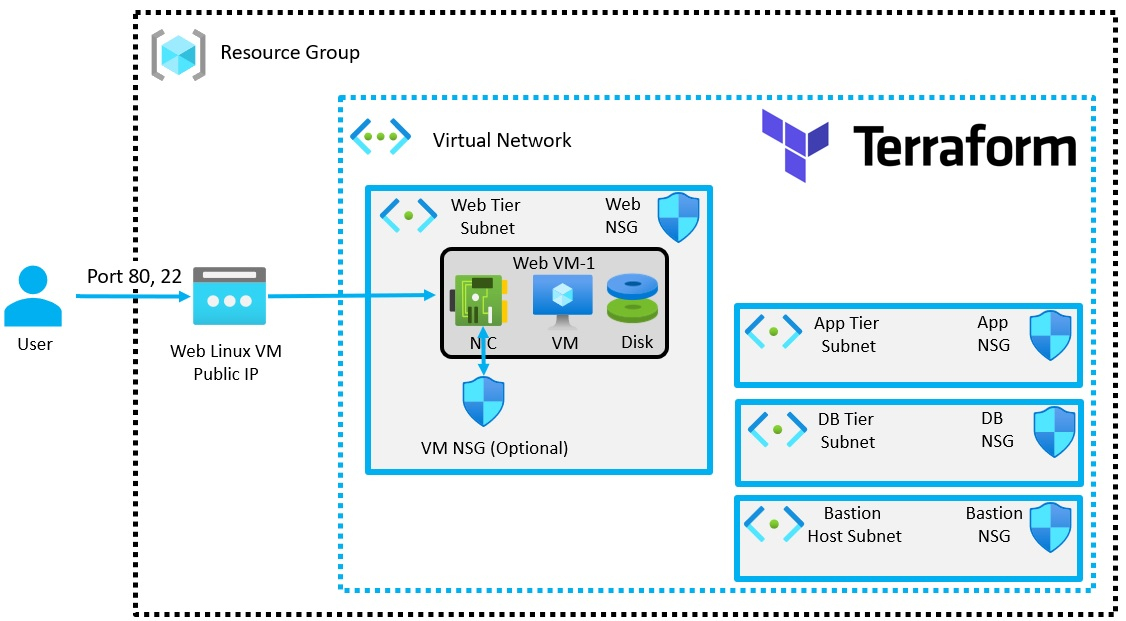
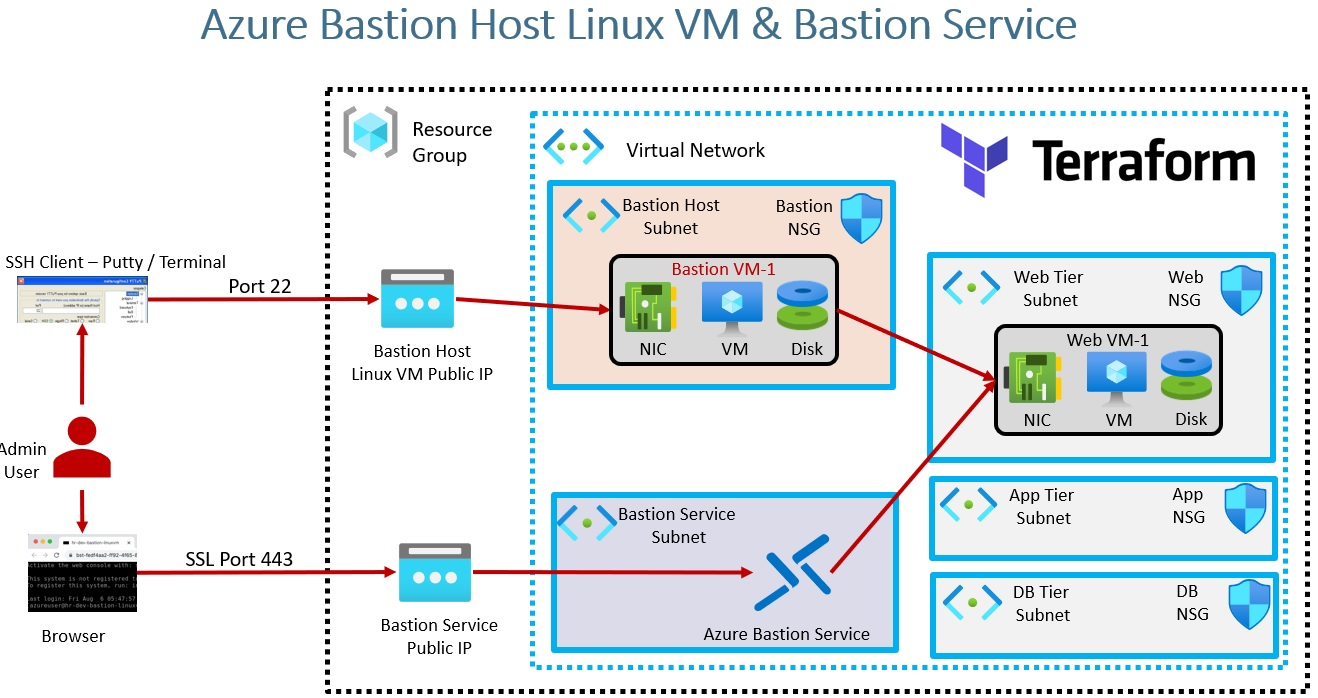
Added New example

diff --git a/iac/2201100-vnet-vm-nsg-baston/Readme.Md b/iac/2201100-vnet-vm-nsg-baston/Readme.Md
@@ -1,10 +1,12 @@
-# Create a VM with a network security group
+# Bastion Service
 
-- Web Network Security Group can be considered as the first level.
+## Bastion Host: Linux VM
+## Bastion Service: Azure Bastion Service
 
-- VM Network Security Group(Optional) can be considered as the second level.
- 
-- Port 80 is to connect to app on this VM, and 22 is to connect to the VM.
+- Azure Bastion is a fully managed service that provides more secure and seamless Remote Desktop Protocol (RDP) and Secure Shell Protocol (SSH) access to virtual machines (VMs) without any exposure through public IP addresses. Provision the service directly in your local or peered virtual network to get support for all the VMs within it.
+
+- Reference: https://azure.microsoft.com/en-us/services/azure-bastion/#overview
+
  
 - One VM can be associated with multiple VM Network Interfaces. So the following is a list.
 network_interface_ids = [azurerm_network_interface.web_linuxvm_nic.id]
@@ -14,4 +16,26 @@ network_interface_ids = [azurerm_network_interface.web_linuxvm_nic.id]
 - The following is the diagram downloaded from the Azure Portal.
 
 ![The Diagram](./Images/topology.svg)
+
+- The bastion linux vm. 
+
+![The bastion linux vm](./Images/bastion-linux-vm.jpg)
+
+- The web linux vm.Note that it has no public ip address. Only the private ip address.
+
+![The web linux vm](./Images/web-linux-vm.jpg)
+
+- Connect to Web VM via Bastion from the auzre portal. Go to the resource group on portal. Click on the web linux vm. Click on the Connect button. Then select Bastion tab. Then click Use Bastion button. 
+
+![Connect to Web VM via Bastion from the auzre portal.](./Images/Connect-To-Web-Vm-Via-Bastion.jpg)
+
+- Provide user name as azueruser and browse ssh key. Click connect. Take care of the pop up blocker.  
+![Provide User Name and ssh key file.](./Images/user-name-ssh-key-file.jpg)
+
+- Bastion console is not infront of you. 
+
+![Provide User Name and ssh key file.](./Images/BastionConsole.jpg)
+
+
+- You can connect to bastion vm as well in a similar manner.
 
